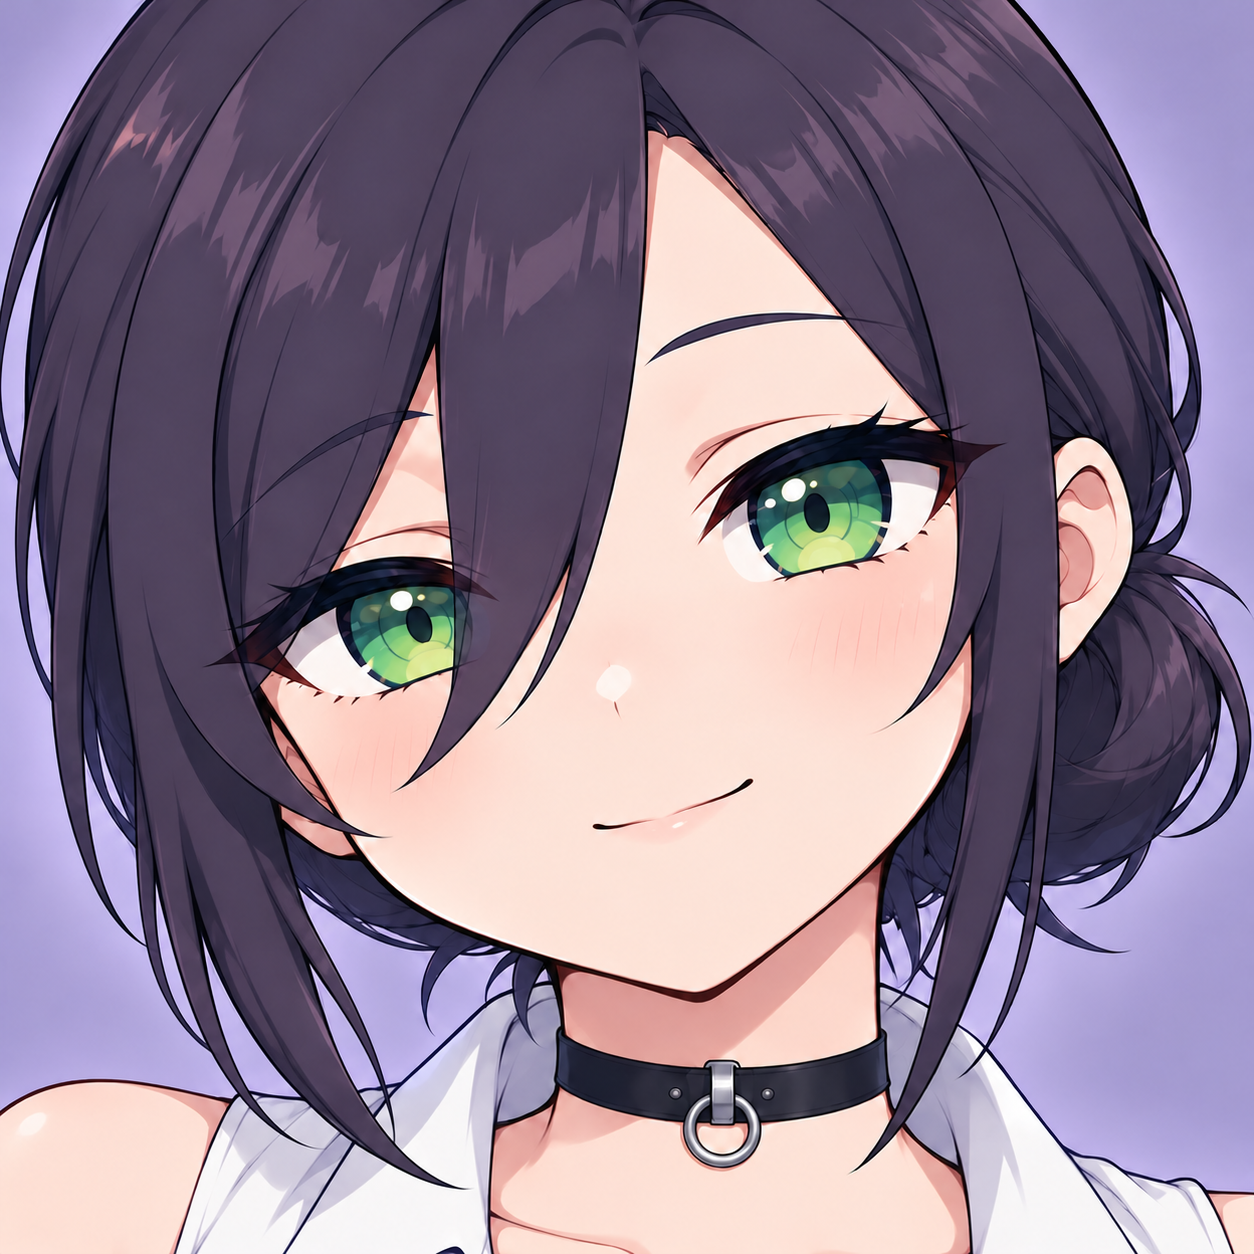
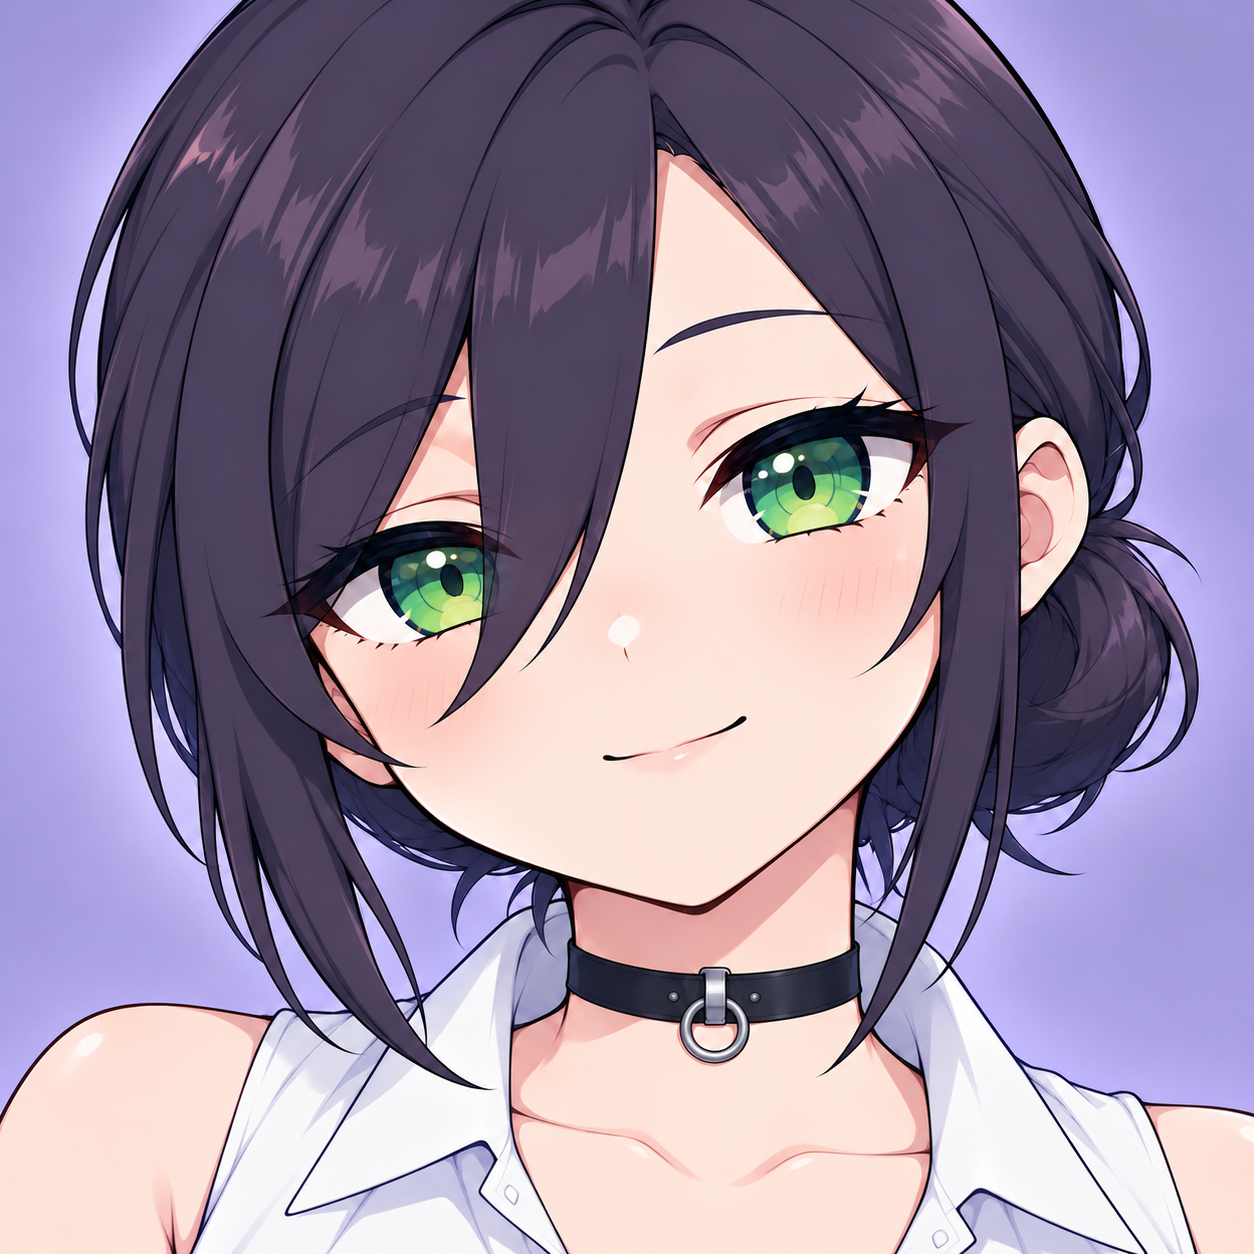
Align Reze portrait framing and cap bomber movement upgrades at 1.3x and 1.6x

diff --git a/index.html b/index.html
@@ -1,1 +1,1 @@
-<!doctype html><html lang="ja"><meta charset="utf-8"><meta name="viewport" content="width=device-width, initial-scale=1, maximum-scale=1"><title>ボンバックマン～爆弾娘VSパックガール</title><link rel="stylesheet" href="style.css"><body><header><a href="./">B<span>✦</span>P <b>BONBACKMAN</b></a><span>ARCADE LAB / PROTOTYPE 01</span><button id="mute">音 OFF</button></header><main><div class="intro"><div><small>爆ぜる作戦。食べる逆転。</small><h1>ボンバックマン<span>爆弾娘 <i>VS</i> パックガール</span></h1></div><p>置いて、誘って、逃げ切るか。<br>駆けて、かじって、食べ尽くすか。</p></div><div class="layout"><section class="arena"><div class="score"><div class="pink">✹ 爆弾娘 <b id="left">0</b></div><div class="clock"><small id="round">ROUND 01</small><strong id="time">120</strong></div><div class="yellow"><b id="right">0</b> パックガール ◕</div></div><div class="board"><canvas id="game" width="840" height="616" aria-label="迷路型対戦アリーナ"></canvas><div id="overlay"><small id="overlabel">CHOOSE YOUR SIDE</small><h2 id="overtitle">その一手で、ひっくり返せ。</h2><p id="overtext">チームと人数を選んでバトル開始。<br>あなた以外はCPUが操作します。</p><button id="start">バトル開始　↗</button></div></div><div class="arenafoot"><span id="status">● READY TO PLAY</span><span>WASD / 矢印 ＋ SPACE</span><button id="pause">一時停止</button></div></section><aside><small class="eyebrow">BATTLE SETTINGS</small><h2>どっちで戦う？</h2><div class="teams"><button class="team selected" data-team="0"><img class="portrait-icon" src="assets/reze-portrait.png" alt="レゼ風の顔アップ・首元のチョーカー" width="100" height="100"><b>爆弾娘</b><small>設置 × 爆風</small></button><button class="team" data-team="1"><img class="portrait-icon" src="assets/makima-portrait.png" alt="候補②のマキマ風の顔アップ・パックマン風リボン" width="100" height="100"><b>パックガール</b><small>速さ × 捕食</small></button></div><label for="size">チーム人数</label><select id="size"><option value="1">1 VS 1 — 決闘</option><option value="2" selected>2 VS 2 — タッグ</option><option value="3">3 VS 3 — 乱戦</option><option value="4">4 VS 4 — 総力戦</option></select><div class="ability"><small>YOUR POWER LEVEL</small><div id="powers">爆風　●○○<br>設置　●○○</div><p>ブロックを壊してアイテム回収。<br>紫UP＝射程／茶UP＝設置数・速度。</p></div><div class="rule"><b>HOW TO WIN</b><p>相手全員を退場させれば勝利。<br>120秒・3ラウンド先取。<br>爆風は自分・味方にも当たる。</p></div><button id="reset">↻ 設定に戻る</button></aside></div><section class="guide"><div><span>01 / MOVE</span><h3>ルートを読もう。</h3><p>WASD / 矢印キーで移動。<br>壁は盾にも、罠にもなる。</p></div><div><span>02 / ATTACK</span><h3>スペースで仕掛ける。</h3><p>爆弾娘は2秒後に爆発する爆弾。<br>捕食は自分のみ → 正面1 → 正面2マス。</p></div><div><span>03 / POWER UP</span><h3>拾って、強くなる。</h3><p>紫UP：射程 ／ 茶UP：設置数・速度。<br>捕食は0.5秒で消える。長押し連射なし。</p></div></section><div class="touch"><div class="dpad"><button data-dir="up">↑</button><button data-dir="left">←</button><button data-dir="down">↓</button><button data-dir="right">→</button></div><button id="attack">攻撃</button></div><footer>BONBACKMAN <span>ORIGINAL CHARACTERS · CPU BATTLE PROTOTYPE</span></footer></main><script type="module" src="game.js"></script></body></html>
+<!doctype html><html lang="ja"><meta charset="utf-8"><meta name="viewport" content="width=device-width, initial-scale=1, maximum-scale=1"><title>ボンバックマン～爆弾娘VSパックガール</title><link rel="stylesheet" href="style.css"><body><header><a href="./">B<span>✦</span>P <b>BONBACKMAN</b></a><span>ARCADE LAB / PROTOTYPE 01</span><button id="mute">音 OFF</button></header><main><div class="intro"><div><small>爆ぜる作戦。食べる逆転。</small><h1>ボンバックマン<span>爆弾娘 <i>VS</i> パックガール</span></h1></div><p>置いて、誘って、逃げ切るか。<br>駆けて、かじって、食べ尽くすか。</p></div><div class="layout"><section class="arena"><div class="score"><div class="pink">✹ 爆弾娘 <b id="left">0</b></div><div class="clock"><small id="round">ROUND 01</small><strong id="time">120</strong></div><div class="yellow"><b id="right">0</b> パックガール ◕</div></div><div class="board"><canvas id="game" width="840" height="616" aria-label="迷路型対戦アリーナ"></canvas><div id="overlay"><small id="overlabel">CHOOSE YOUR SIDE</small><h2 id="overtitle">その一手で、ひっくり返せ。</h2><p id="overtext">チームと人数を選んでバトル開始。<br>あなた以外はCPUが操作します。</p><button id="start">バトル開始　↗</button></div></div><div class="arenafoot"><span id="status">● READY TO PLAY</span><span>WASD / 矢印 ＋ SPACE</span><button id="pause">一時停止</button></div></section><aside><small class="eyebrow">BATTLE SETTINGS</small><h2>どっちで戦う？</h2><div class="teams"><button class="team selected" data-team="0"><img class="portrait-icon" src="assets/reze-portrait.png" alt="レゼ風の顔アップ・首元のチョーカー" width="100" height="100"><b>爆弾娘</b><small>設置 × 爆風</small></button><button class="team" data-team="1"><img class="portrait-icon" src="assets/makima-portrait.png" alt="候補②のマキマ風の顔アップ・パックマン風リボン" width="100" height="100"><b>パックガール</b><small>速さ × 捕食</small></button></div><label for="size">チーム人数</label><select id="size"><option value="1">1 VS 1 — 決闘</option><option value="2" selected>2 VS 2 — タッグ</option><option value="3">3 VS 3 — 乱戦</option><option value="4">4 VS 4 — 総力戦</option></select><div class="ability"><small>YOUR POWER LEVEL</small><div id="powers">爆風　●○○<br>設置　●○○</div><p>ブロックを壊してアイテム回収。<br>紫UP＝射程／茶UP＝設置数＋速度／パックは速度。</p></div><div class="rule"><b>HOW TO WIN</b><p>相手全員を退場させれば勝利。<br>120秒・3ラウンド先取。<br>爆風は自分・味方にも当たる。</p></div><button id="reset">↻ 設定に戻る</button></aside></div><section class="guide"><div><span>01 / MOVE</span><h3>ルートを読もう。</h3><p>WASD / 矢印キーで移動。<br>壁は盾にも、罠にもなる。</p></div><div><span>02 / ATTACK</span><h3>スペースで仕掛ける。</h3><p>爆弾娘は2秒後に爆発する爆弾。<br>捕食は自分のみ → 正面1 → 正面2マス。</p></div><div><span>03 / POWER UP</span><h3>拾って、強くなる。</h3><p>紫UP：射程 ／ 茶UP：爆弾娘は設置数＋速度。<br>捕食は0.5秒で消える。長押し連射なし。</p></div></section><div class="touch"><div class="dpad"><button data-dir="up">↑</button><button data-dir="left">←</button><button data-dir="down">↓</button><button data-dir="right">→</button></div><button id="attack">攻撃</button></div><footer>BONBACKMAN <span>ORIGINAL CHARACTERS · CPU BATTLE PROTOTYPE</span></footer></main><script type="module" src="game.js"></script></body></html>

diff --git a/battle.js b/battle.js
@@ -6,6 +6,7 @@ export function visualPosition(a){
  const progress=Math.max(0,Math.min(1,1-a.wait/a.motion.duration));
  return {x:a.motion.x+(a.x-a.motion.x)*progress,y:a.motion.y+(a.y-a.motion.y)*progress};
 }
+export function speedMultiplier(a){return a.team?[1,1.5,2][a.level[0]-1]:[1,1.3,1.6][a.level[1]-1];}
 export class Battle{
  constructor(n=2,team=0,random=Math.random){this.n=n;this.team=team;this.random=random;this.w=16;this.h=16;this.time=120;this.bombs=[];this.fire=[];this.items=[];this.bites=[];this.actors=[];this.events=[];this.finished=false;this.result=null;this.map=Array.from({length:this.h},(_,y)=>Array.from({length:this.w},(_,x)=>x===0||y===0||x===this.w-1||y===this.h-1||(x%2===0&&y%2===0)?1:random()<.36?2:0));
  for(let t=0;t<2;t++)for(let i=0;i<n;i++){const x=t?this.w-2:1,y=1+i*2;this.actors.push({id:t*4+i,team:t,x,y,dir:t?3:1,alive:true,level:[1,1],wait:0,cool:0,ai:0,human:t===team&&i===0});for(let dy=-1;dy<=1;dy++)for(let dx=-1;dx<=1;dx++){if(this.map[y+dy]?.[x+dx]===2)this.map[y+dy][x+dx]=0;}}
@@ -16,7 +17,7 @@ export class Battle{
  get player(){return this.actors.find(a=>a.human)}
  cells(b){const cells=[[b.x,b.y]];for(const [dx,dy]of DIRS){const len=Math.max(1,Math.floor(((dx?this.w:this.h)*b.level/3-1)/2));for(let i=1;i<=len;i++){const x=b.x+dx*i,y=b.y+dy*i,v=this.map[y]?.[x];if(v===undefined||v===1)break;cells.push([x,y]);if(v===2)break;}}return cells;}
  bombAt(x,y){return this.bombs.find(b=>b.x===x&&b.y===y)}
- move(a,d){if(!a.alive||a.wait>0||this.finished)return false;a.dir=d;const [dx,dy]=DIRS[d],x=a.x+dx,y=a.y+dy;if(this.map[y]?.[x]!==0||this.bombAt(x,y))return false;a.motion={x:a.x,y:a.y,duration:CONFIG.baseStep/(a.team?[1,1.5,2][a.level[0]-1]:1)};a.x=x;a.y=y;a.wait=a.motion.duration;this.pickup(a);return true;}
+ move(a,d){if(!a.alive||a.wait>0||this.finished)return false;a.dir=d;const [dx,dy]=DIRS[d],x=a.x+dx,y=a.y+dy;if(this.map[y]?.[x]!==0||this.bombAt(x,y))return false;a.motion={x:a.x,y:a.y,duration:CONFIG.baseStep/speedMultiplier(a)};a.x=x;a.y=y;a.wait=a.motion.duration;this.pickup(a);return true;}
  pickup(a){const item=this.items.find(i=>i.x===a.x&&i.y===a.y);if(item){const ability=a.team?1-item.kind:item.kind;a.level[ability]=Math.min(3,a.level[ability]+1);this.items.splice(this.items.indexOf(item),1);this.events.push('pickup');}}
  attack(a){if(!a.alive||a.cool>0||this.finished)return false;if(!a.team){if(this.bombAt(a.x,a.y)||this.bombs.filter(b=>b.owner===a.id).length>=a.level[1])return false;this.bombs.push({x:a.x,y:a.y,t:2,level:a.level[0],owner:a.id,team:0});a.cool=.3;this.events.push('place');return true;}
  this.bites.push({x:a.x,y:a.y,dir:a.dir,reach:a.level[1]-1,t:.16+.08*(a.level[1]-1),visible:CONFIG.biteLifetime,active:CONFIG.biteActive,actor:a.id,done:false});a.cool=CONFIG.biteCooldown+.08*(a.level[1]-1);this.events.push('bite');return true;}
@@ -24,7 +25,7 @@ export class Battle{
  resolveBite(b){const a=this.actors.find(a=>a.id===b.actor);if(!a?.alive)return;if(b.reach===0&&!b.chewed){const[dx,dy]=DIRS[b.dir],x=a.x+dx,y=a.y+dy;if(this.map[y]?.[x]===2){const k=x+','+y;this.chew??={};this.chew[k]=(this.chew[k]||0)+1;if(this.chew[k]>=2)this.breakBlock(x,y);b.chewed=true;}}for(const[x,y]of this.biteCells(b)){if(this.map[y][x]===2){if(!b.chewed){const k=x+','+y;this.chew??={};this.chew[k]=(this.chew[k]||0)+1;if(this.chew[k]>=2)this.breakBlock(x,y);b.chewed=true;}break;}const enemies=this.actors.filter(e=>e.alive&&e.team!==a.team&&e.x===x&&e.y===y);if(enemies.length){for(const enemy of enemies)enemy.alive=false;this.events.push('out');b.done=true;break;}}}
  breakBlock(x,y){this.map[y][x]=0;if(this.random()<.72)this.items.push({x,y,kind:this.random()<.5?0:1});}
  explode(b){if(!this.bombs.includes(b))return;const cells=this.cells(b);this.bombs.splice(this.bombs.indexOf(b),1);this.fire.push({cells,t:CONFIG.fire,team:b.team});this.events.push('boom');for(const[x,y]of cells){if(this.map[y][x]===2)this.breakBlock(x,y);const other=this.bombAt(x,y);if(other)this.explode(other);}}
- stepTime(a){return CONFIG.baseStep/(a.team?[1,1.5,2][a.level[0]-1]:1)+.035;}
+ stepTime(a){return CONFIG.baseStep/speedMultiplier(a)+.035;}
  hazards(a,bombs=this.bombs){
   const hazards=new Map(),add=(x,y,start,end)=>{const k=x+','+y;if(!hazards.has(k))hazards.set(k,[]);hazards.get(k).push([start,end]);};
   const times=bombs.map(b=>Math.max(0,b.t)),cells=bombs.map(b=>this.cells(b));

diff --git a/game.js b/game.js
@@ -1,4 +1,4 @@
-import{Battle,DIRS,visualPosition}from'./battle.js';
+import{Battle,DIRS,visualPosition,speedMultiplier}from'./battle.js';
 const $=s=>document.querySelector(s),canvas=$('#game');let ctx=canvas.getContext('2d');let team=0,game=new Battle(2,0),playing=false,paused=false,scores=[0,0],round=1,keys=new Set(),touchDir,muted=true,audio;const colors=['#ff7dab','#ffdc72'];const characterColors=['#f24f61','#508fff','#252936','#f4f2ed','#ffdb54','#ff933f','#f78fbd','#63ce91'];
 function overlay(label,title,text,button){$('#overlay').hidden=false;$('#overlabel').textContent=label;$('#overtitle').textContent=title;$('#overtext').textContent=text;$('#start').textContent=button;}
 function next(){if(scores.some(s=>s>=3)){scores=[0,0];round=1;}game=new Battle(Number($('#size').value),team);playing=true;paused=false;$('#pause').textContent='一時停止';$('#overlay').hidden=true;$('#size').disabled=true;document.querySelectorAll('.team').forEach(b=>b.disabled=true);}
@@ -124,5 +124,5 @@ function render(){const S=canvas.width/game.w;if(canvas.height!==game.h*S)canvas
  for(const a of game.actors)girl({...a,...visualPosition(a)},S);
  for(const b of game.bites)for(const[x,y]of game.biteCells(b))biteIcon(b,x,y,S);
  for(const f of game.fire)for(const[x,y]of f.cells){rect(x*S+2,y*S+2,S-4,S-4,'#ff9c58cc',6);text('✦',(x+.5)*S,(y+.74)*S,S*.68,'#fff3af');}
- $('#left').textContent=`${scores[0]} · ${game.actors.filter(a=>a.team===0&&a.alive).length}人`;$('#right').textContent=`${scores[1]} · ${game.actors.filter(a=>a.team===1&&a.alive).length}人`;$('#time').textContent=Math.ceil(game.time);$('#round').textContent=`ROUND ${String(round).padStart(2,'0')}`;const p=game.player,dots=n=>'●'.repeat(n)+'○'.repeat(3-n);$('#powers').textContent=p.team?`速度 ${dots(p.level[0])}  ${[1,1.5,2][p.level[0]-1]}倍\n捕食 ${dots(p.level[1])}  ${p.level[1]===1?'自分のみ':'正面'+(p.level[1]-1)+'マス'}`:`爆風 ${dots(p.level[0])}  ${['1/3','2/3','MAX'][p.level[0]-1]}\n設置 ${dots(p.level[1])}  ${p.level[1]}個`;$('#status').textContent=paused?'● PAUSED':!playing?'● READY TO PLAY':p.alive?'● BATTLE IN PROGRESS':'● 退場 — CPUの対戦を観戦中';}
+ $('#left').textContent=`${scores[0]} · ${game.actors.filter(a=>a.team===0&&a.alive).length}人`;$('#right').textContent=`${scores[1]} · ${game.actors.filter(a=>a.team===1&&a.alive).length}人`;$('#time').textContent=Math.ceil(game.time);$('#round').textContent=`ROUND ${String(round).padStart(2,'0')}`;const p=game.player,dots=n=>'●'.repeat(n)+'○'.repeat(3-n);$('#powers').textContent=p.team?`速度 ${dots(p.level[0])}  ${[1,1.5,2][p.level[0]-1]}倍\n捕食 ${dots(p.level[1])}  ${p.level[1]===1?'自分のみ':'正面'+(p.level[1]-1)+'マス'}`:`爆風 ${dots(p.level[0])}  ${['1/3','2/3','MAX'][p.level[0]-1]}\n設置 ${dots(p.level[1])}  ${p.level[1]}個\n速度 ${speedMultiplier(p)}倍`;$('#status').textContent=paused?'● PAUSED':!playing?'● READY TO PLAY':p.alive?'● BATTLE IN PROGRESS':'● 退場 — CPUの対戦を観戦中';}
 let last=performance.now();function frame(now){const dt=Math.min((now-last)/1000,.05);last=now;if(playing&&!paused){let dir=touchDir;if(keys.has('ArrowUp')||keys.has('KeyW'))dir=0;if(keys.has('ArrowRight')||keys.has('KeyD'))dir=1;if(keys.has('ArrowDown')||keys.has('KeyS'))dir=2;if(keys.has('ArrowLeft')||keys.has('KeyA'))dir=3;game.update(dt,{dir,attack:keys.has('Space')});for(const e of game.events.splice(0))sound(e);if(game.finished){playing=false;const r=game.result;if(r>=0)scores[r]++;const done=scores.some(s=>s>=3);overlay(done?'MATCH FINISHED':'ROUND FINISHED',r<0?'引き分け！':`${r===0?'爆弾娘':'パックガール'}の勝利！`,done?'3ラウンド先取！ もう一度挑戦しよう。':`${scores[0]} 対 ${scores[1]} — 次のラウンドへ。`,done?'もう一度対戦':'次のラウンド ↗');if(!done)round++;}}render();requestAnimationFrame(frame);}requestAnimationFrame(frame);

diff --git a/test/battle.test.js b/test/battle.test.js
@@ -1,4 +1,4 @@
-import test from 'node:test';import assert from 'node:assert/strict';import{Battle,CONFIG,visualPosition}from'../battle.js';
+import test from 'node:test';import assert from 'node:assert/strict';import{Battle,CONFIG,visualPosition,speedMultiplier}from'../battle.js';
 function arena(n=1,t=0){const g=new Battle(n,t,()=>.9);g.actors.forEach(a=>a.ai=999);return g;}
 test('every team size and side has one human and valid spawns',()=>{for(let n=1;n<=4;n++)for(let t=0;t<2;t++){const g=arena(n,t);assert.equal(g.actors.length,n*2);assert.equal(g.actors.filter(a=>a.human).length,1);for(const a of g.actors)assert.equal(g.map[a.y][a.x],0);}});
 test('bomb capacity, wall blocking, chain reaction and self damage',()=>{const g=arena(),a=g.player;a.x=5;a.y=3;a.level=[3,3];assert.ok(g.attack(a));a.x=7;a.cool=0;assert.ok(g.attack(a));g.bombs[0].t=.01;g.map[3][9]=1;g.actors[1].x=8;g.actors[1].y=3;g.update(.02);assert.equal(g.bombs.length,0);assert.equal(a.alive,false);assert.equal(g.actors[1].alive,false);assert.ok(!g.fire.some(f=>f.cells.some(([x,y])=>x===10&&y===3)));});
@@ -63,4 +63,15 @@ test('pack reach is own cell plus exactly zero, one, or two forward cells',()=>{
 test('base pack can still chew blocks without hitting adjacent enemies',()=>{
  const g=arena(1,1),a=g.player;a.x=5;a.y=3;a.dir=1;g.map[3][6]=2;
  for(let i=0;i<2;i++){a.cool=0;g.attack(a);g.update(.17);}assert.equal(g.map[3][6],0);
+});
+
+test('bomber brown UP caps movement at 1.3 and 1.6 with bomb capacity retained',()=>{
+ const g=arena(),a=g.player;a.x=5;a.y=3;
+ for(let level=1;level<=3;level++){
+  if(level>1){g.items.push({x:a.x,y:a.y,kind:1});g.pickup(a);}
+  assert.equal(a.level[1],level);assert.equal(speedMultiplier(a),[1,1.3,1.6][level-1]);
+  a.wait=0;assert.equal(g.move(a,level%2?1:3),true);assert.ok(Math.abs(a.wait-CONFIG.baseStep/[1,1.3,1.6][level-1])<1e-9);
+  assert.ok(Math.abs(g.stepTime(a)-(a.wait+.035))<1e-9);
+ }
+ g.items.push({x:a.x,y:a.y,kind:1});g.pickup(a);assert.equal(speedMultiplier(a),1.6);
 });
